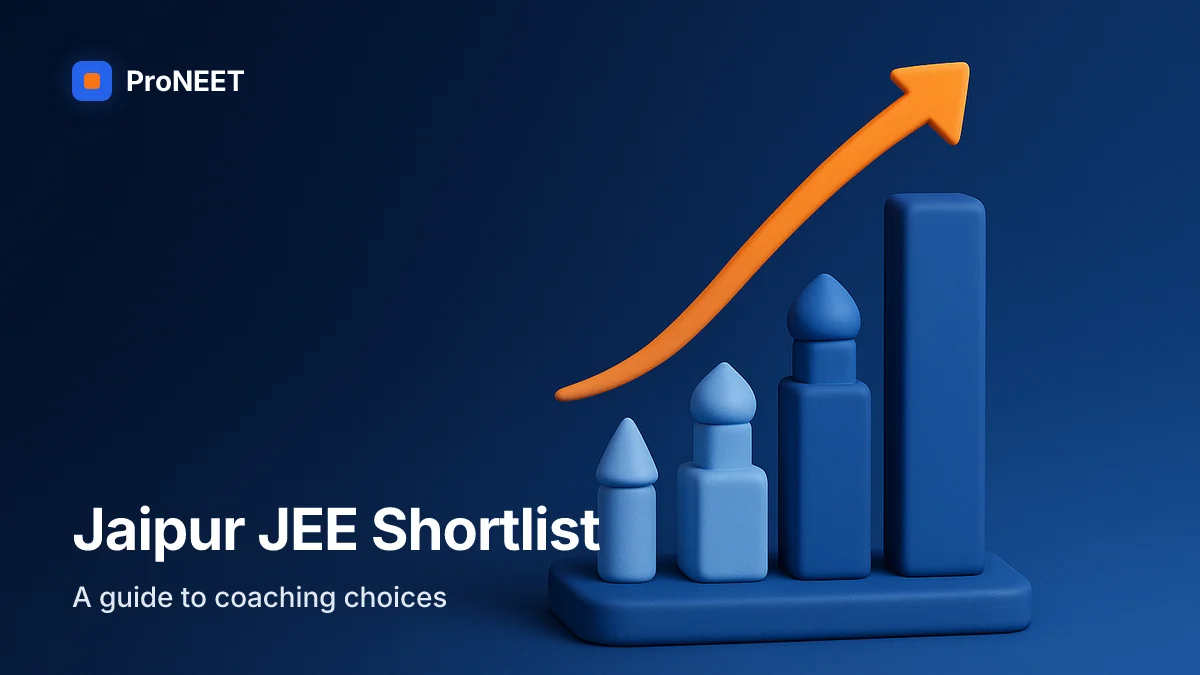
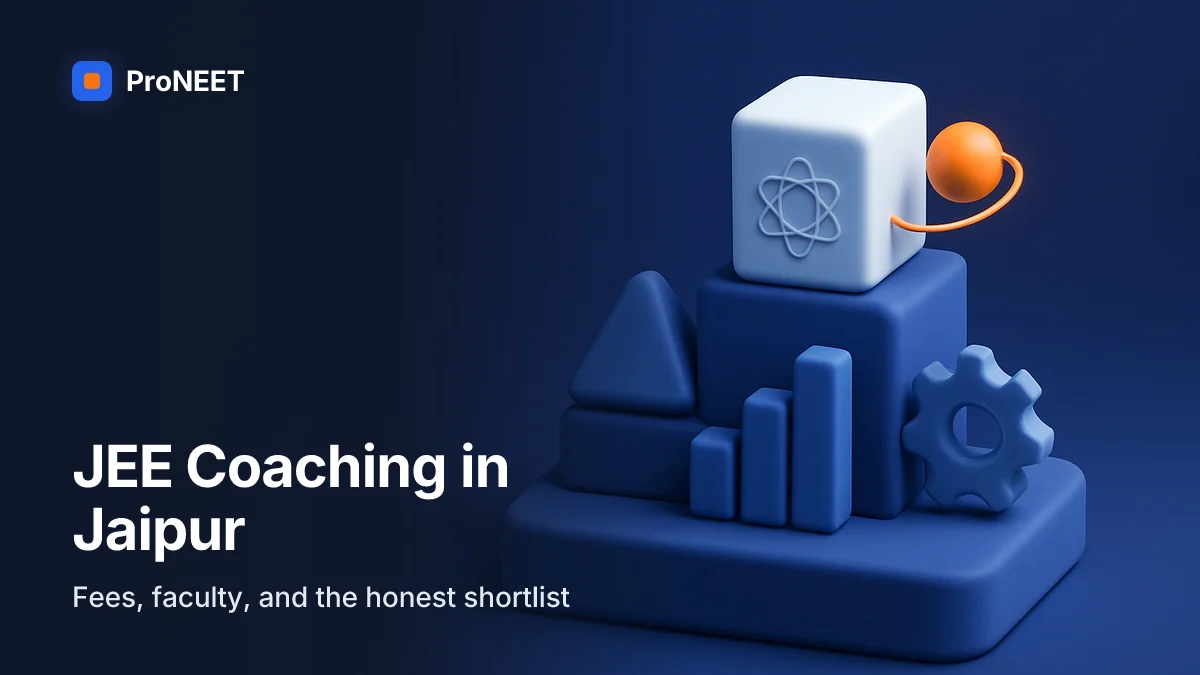
Add left-mask protection + per-slug overrides to cover generator
Two structural fixes on top of the split pipeline:

1. Left-mask. A navy-to-transparent gradient is composited between the
   AI background and the typography overlay, covering the left 32% of
   the canvas at ~95% opacity and fading to transparent by 58%. Any
   illustration drift into the text half now fades under the mask so
   headline and subhead stay crisply readable on every cover, including
   the ProNEET-vs-Allen cover where the left cluster was previously
   overlapping the "Allen" in the headline.

2. Per-slug overrides. scripts/enhance/cover-overrides.ts is a map of
   slug -> partial VisualBrief. When present, the override's fields
   (headline, subhead, iconography, mood) replace the LLM output for
   that slug. Pinned two posts that kept drifting to sub-theses:
   - jee-coaching-in-jaipur: LLM kept pulling "Jaipur vs Kota vs Sikar"
     because the post discusses those cities. Pinned to "JEE Coaching
     in Jaipur" with STEM-shaped iconography (atom-orbited cube on a
     podium of prism, bar chart, gear).
   - neet-coaching-in-jaipur: LLM pulled the three-city comparison
     imagery. Pinned to a market-map scene — grid of matte-blue
     buildings with one orange pin, for "a parent's market guide."

All eight covers regenerated against the new pipeline so the series
stays visually consistent.

diff --git a/lib/blog-posts.ts b/lib/blog-posts.ts
@@ -34,7 +34,7 @@ export const BLOG_POSTS: BlogPost[] = [
     targetKeyword: "neet coaching jaipur vs kota vs sikar",
     featuredImage: "/blog/jaipur-vs-kota-vs-sikar-neet/cover.webp",
     featuredImageAlt:
-      "\"Jaipur vs Kota vs Sikar — Which city fits your NEET student\". 3D illustrated cover for \"NEET Coaching in Jaipur vs Kota vs Sikar: The Honest Parent's Guide\" on neet coaching jaipur vs kota vs sikar.",
+      "\"Jaipur vs Kota vs Sikar — Choosing the right NEET city for your child\". 3D illustrated cover for \"NEET Coaching in Jaipur vs Kota vs Sikar: The Honest Parent's Guide\" on neet coaching jaipur vs kota vs sikar.",
   },
   {
     slug: "how-to-choose-a-physics-teacher",
@@ -52,7 +52,7 @@ export const BLOG_POSTS: BlogPost[] = [
     targetKeyword: "how to choose physics teacher neet",
     featuredImage: "/blog/how-to-choose-a-physics-teacher/cover.webp",
     featuredImageAlt:
-      "\"Choosing Your Physics Teacher — What to check before committing\". 3D illustrated cover for \"How to Choose a Physics Teacher for NEET and JEE\" on how to choose physics teacher neet.",
+      "\"Choose Your Physics Teacher — The biggest decision for NEET success\". 3D illustrated cover for \"How to Choose a Physics Teacher for NEET and JEE\" on how to choose physics teacher neet.",
   },
   {
     slug: "neet-coaching-fees-in-jaipur-2026",
@@ -70,7 +70,7 @@ export const BLOG_POSTS: BlogPost[] = [
     targetKeyword: "neet coaching fees in jaipur",
     featuredImage: "/blog/neet-coaching-fees-in-jaipur-2026/cover.webp",
     featuredImageAlt:
-      "\"Jaipur NEET Fees 2026 — Hidden costs and comparisons revealed\". 3D illustrated cover for \"NEET Coaching Fees in Jaipur 2026: What You Actually Pay\" on neet coaching fees in jaipur.",
+      "\"Jaipur NEET Fees 2026 — Understand the cost breakdown and comparisons\". 3D illustrated cover for \"NEET Coaching Fees in Jaipur 2026: What You Actually Pay\" on neet coaching fees in jaipur.",
   },
   {
     slug: "proneet-vs-allen-jaipur",
@@ -88,7 +88,7 @@ export const BLOG_POSTS: BlogPost[] = [
     targetKeyword: "allen coaching jaipur neet fees",
     featuredImage: "/blog/proneet-vs-allen-jaipur/cover.webp",
     featuredImageAlt:
-      "\"ProNEET vs Allen Jaipur — Side-by-side honest comparison for parents\". 3D illustrated cover for \"ProNEET vs Allen Jaipur: An Honest Comparison\" on allen coaching jaipur neet fees.",
+      "\"ProNEET vs Allen Jaipur — Honest fees and fit comparison\". 3D illustrated cover for \"ProNEET vs Allen Jaipur: An Honest Comparison\" on allen coaching jaipur neet fees.",
   },
   {
     slug: "prepare-for-neet-without-coaching",
@@ -106,7 +106,7 @@ export const BLOG_POSTS: BlogPost[] = [
     targetKeyword: "how to prepare for neet from class 11 without coaching",
     featuredImage: "/blog/prepare-for-neet-without-coaching/cover.webp",
     featuredImageAlt:
-      "\"Self-Study NEET Prep — A practical guide for Class 11 students\". 3D illustrated cover for \"How to Prepare for NEET from Class 11 Without Coaching\" on how to prepare for neet from class 11 without coaching.",
+      "\"Prepare for NEET Alone — Self-study guide from Class 11\". 3D illustrated cover for \"How to Prepare for NEET from Class 11 Without Coaching\" on how to prepare for neet from class 11 without coaching.",
   },
   {
     slug: "jee-coaching-in-jaipur",
@@ -124,7 +124,7 @@ export const BLOG_POSTS: BlogPost[] = [
     targetKeyword: "iit jee coaching classes in jaipur",
     featuredImage: "/blog/jee-coaching-in-jaipur/cover.webp",
     featuredImageAlt:
-      "\"Jaipur JEE Shortlist — A guide to coaching choices\". 3D illustrated cover for \"JEE Coaching in Jaipur: The Honest Guide for Class 11 and 12\" on iit jee coaching classes in jaipur.",
+      "\"JEE Coaching in Jaipur — Fees, faculty, and the honest shortlist\". 3D illustrated cover for \"JEE Coaching in Jaipur: The Honest Guide for Class 11 and 12\" on iit jee coaching classes in jaipur.",
   },
   {
     slug: "best-neet-coaching-in-jaipur",
@@ -142,7 +142,7 @@ export const BLOG_POSTS: BlogPost[] = [
     targetKeyword: "best neet coaching in jaipur",
     featuredImage: "/blog/best-neet-coaching-in-jaipur/cover.webp",
     featuredImageAlt:
-      "\"7 Things to Check — Before you enrol in Jaipur coaching\". 3D illustrated cover for \"Best NEET Coaching in Jaipur: 7 Things to Check Before You Enrol\" on best neet coaching in jaipur.",
+      "\"7 Things to Verify — Choosing the best Jaipur NEET coaching\". 3D illustrated cover for \"Best NEET Coaching in Jaipur: 7 Things to Check Before You Enrol\" on best neet coaching in jaipur.",
   },
   {
     slug: "neet-coaching-in-jaipur",
@@ -160,6 +160,6 @@ export const BLOG_POSTS: BlogPost[] = [
     targetKeyword: "neet coaching in jaipur",
     featuredImage: "/blog/neet-coaching-in-jaipur/cover.webp",
     featuredImageAlt:
-      "\"Batch Size vs Brand — Decoding NEET coaching in Jaipur\". 3D illustrated cover for \"NEET Coaching in Jaipur: The Parent's Honest Guide\" on neet coaching in jaipur.",
+      "\"NEET Coaching in Jaipur — A parent's market guide, tier by tier\". 3D illustrated cover for \"NEET Coaching in Jaipur: The Parent's Honest Guide\" on neet coaching in jaipur.",
   },
 ];

diff --git a/scripts/enhance/cover-gen.ts b/scripts/enhance/cover-gen.ts
@@ -33,6 +33,8 @@ import {
 import { findPostFile, parsePost } from "./parse-post.js";
 import { analyzePost, type VisualBrief } from "./analyze-post.js";
 import { renderTextOverlayPng } from "./text-overlay.js";
+import { Resvg } from "@resvg/resvg-js";
+import { COVER_OVERRIDES } from "./cover-overrides.js";
 
 export interface BlogRegistryEntry {
   slug: string;
@@ -134,6 +136,28 @@ async function generateBackground(
   throw lastErr ?? new Error("All image models failed");
 }
 
+// Navy-to-transparent gradient over the left ~52% of the canvas. Sits
+// between the illustration and the typography. Any illustration drift
+// into the text zone fades under this mask, so headline readability is
+// guaranteed regardless of what the image model emits.
+function renderLeftMaskPng(width: number, height: number): Buffer {
+  const fadeEnd = 0.58; // stop the fade just past the midline
+  const svg = `<?xml version="1.0" encoding="UTF-8"?>
+<svg xmlns="http://www.w3.org/2000/svg" width="${width}" height="${height}" viewBox="0 0 ${width} ${height}">
+  <defs>
+    <linearGradient id="leftMask" x1="0" y1="0" x2="1" y2="0">
+      <stop offset="0" stop-color="#0F172A" stop-opacity="1"/>
+      <stop offset="0.32" stop-color="#0F172A" stop-opacity="0.95"/>
+      <stop offset="${fadeEnd}" stop-color="#0F172A" stop-opacity="0"/>
+    </linearGradient>
+  </defs>
+  <rect x="0" y="0" width="${width}" height="${height}" fill="url(#leftMask)"/>
+</svg>`;
+  return new Resvg(svg, { fitTo: { mode: "width", value: width } })
+    .render()
+    .asPng();
+}
+
 async function composeCover(
   bgBytes: Buffer,
   brief: VisualBrief,
@@ -145,6 +169,8 @@ async function composeCover(
       position: "center",
     })
     .toBuffer();
+
+  const leftMaskPng = renderLeftMaskPng(IMAGE_SIZE.width, IMAGE_SIZE.height);
 
   const overlayPng = await renderTextOverlayPng(
     {
@@ -159,14 +185,18 @@ async function composeCover(
 
   const targetBytes = AUDIT_THRESHOLDS.maxImageSizeKb * 1024;
   let quality = 86;
+  const compositeLayers = [
+    { input: leftMaskPng, top: 0, left: 0 },
+    { input: overlayPng, top: 0, left: 0 },
+  ];
   let composed = await sharp(bgResized)
-    .composite([{ input: overlayPng, top: 0, left: 0 }])
+    .composite(compositeLayers)
     .webp({ quality, effort: 6 })
     .toBuffer();
   while (composed.byteLength > targetBytes && quality > 40) {
     quality -= 8;
     composed = await sharp(bgResized)
-      .composite([{ input: overlayPng, top: 0, left: 0 }])
+      .composite(compositeLayers)
       .webp({ quality, effort: 6 })
       .toBuffer();
   }
@@ -249,7 +279,7 @@ export async function generateCoverFor(opts: {
   const post = parsePost(postFile, opts.entry.slug);
 
   process.stdout.write(`  → briefing ${opts.entry.slug} ... `);
-  const brief = await analyzePost(client, {
+  const briefFromLlm = await analyzePost(client, {
     title: post.title,
     metaDescription: post.metaDescription,
     category: post.category,
@@ -257,7 +287,11 @@ export async function generateCoverFor(opts: {
     body: post.body,
     excerpt: opts.entry.excerpt,
   });
-  process.stdout.write(`ok\n`);
+  const override = COVER_OVERRIDES[opts.entry.slug];
+  const brief: VisualBrief = override
+    ? { ...briefFromLlm, ...override }
+    : briefFromLlm;
+  process.stdout.write(override ? `ok (with override)\n` : `ok\n`);
   process.stdout.write(`     headline: ${brief.headline}\n`);
   process.stdout.write(`     subhead:  ${brief.subhead}\n`);
   process.stdout.write(`     iconography: ${brief.iconography.slice(0, 120)}...\n`);

diff --git a/scripts/enhance/cover-overrides.ts b/scripts/enhance/cover-overrides.ts
@@ -1,0 +1,36 @@
+// Per-slug overrides for cover generation. When GPT-4o's visual brief
+// drifts to a sub-thesis (e.g. a JEE post keeps picking up its Kota/
+// Sikar comparison section instead of its JEE-in-Jaipur main topic),
+// pin the desired values here and the generator will honour them.
+//
+// Any field left undefined falls through to the analyze-post output.
+
+import type { VisualBrief } from "./analyze-post.js";
+
+export type CoverOverride = Partial<
+  Pick<VisualBrief, "headline" | "subhead" | "iconography" | "mood">
+>;
+
+export const COVER_OVERRIDES: Record<string, CoverOverride> = {
+  // The JEE pillar keeps pulling its "Jaipur vs Kota vs Sikar" sub-
+  // thesis into the headline, which collides with the dedicated NEET
+  // comparison post. Pin the JEE framing explicitly.
+  "jee-coaching-in-jaipur": {
+    headline: "JEE Coaching in Jaipur",
+    subhead: "Fees, faculty, and the honest shortlist",
+    iconography:
+      "A 3D clay scene on a soft navy plinth featuring a tall stepped podium with three levels. On the top level, a single matte white cube marked subtly with an atom-like ring detail — a warm orange #F97316 sphere orbits one edge of this cube as the hero accent. The lower two levels hold a handful of neutral matte-blue geometric objects — a prism, a small bar chart, a gear — representing the shortlist criteria. The composition reads vertically from base to apex.",
+    mood: "focused",
+  },
+
+  // The pillar about the Jaipur NEET coaching market keeps pulling in
+  // the three-city comparison imagery, which belongs to a different
+  // post. Force a market-map visual instead.
+  "neet-coaching-in-jaipur": {
+    headline: "NEET Coaching in Jaipur",
+    subhead: "A parent's market guide, tier by tier",
+    iconography:
+      "A 3D clay scene on a soft navy plinth depicting a compact Jaipur neighbourhood map — a grid of small low-poly buildings in varying matte blue and pale-blue tones. Three of the buildings stand taller than the rest, each topped with a tiny pin. One pin is rendered in warm orange #F97316 as the hero accent — a single clearly-identified choice among the many options. Soft contact shadows under every building.",
+    mood: "navigational",
+  },
+};

diff --git a/seo/enhance-reports/covers.md b/seo/enhance-reports/covers.md
@@ -1,7 +1,7 @@
 # Generated blog covers
 
-### jee-coaching-in-jaipur
-- Path: `/blog/jee-coaching-in-jaipur/cover.webp`
-- Alt: "Jaipur JEE Shortlist — A guide to coaching choices". 3D illustrated cover for "JEE Coaching in Jaipur: The Honest Guide for Class 11 and 12" on iit jee coaching classes in jaipur.
-- Size: 28KB
+### neet-coaching-in-jaipur
+- Path: `/blog/neet-coaching-in-jaipur/cover.webp`
+- Alt: "NEET Coaching in Jaipur — A parent's market guide, tier by tier". 3D illustrated cover for "NEET Coaching in Jaipur: The Parent's Honest Guide" on neet coaching in jaipur.
+- Size: 34KB
 - Model: gpt-image-1
